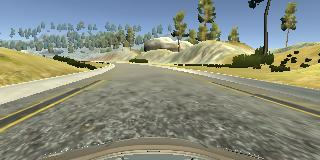
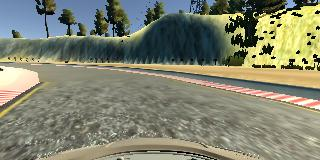
add recovery usage. updated recovery examples.

diff --git a/data_io.py b/data_io.py
@@ -10,11 +10,16 @@ VALIDATION_RATIO = 0.3
 
 
 def load_dataset():
-    log_file = os.path.join(DATA_PATH, 'driving_log.csv')
+    log_file_original = os.path.join(DATA_PATH, 'driving_log.csv')
+    log_file_centerDriving = os.path.join(DATA_PATH,'centerDriving','driving_log.csv')
+    log_file_recovery = os.path.join(DATA_PATH, 'recoveryLong', 'driving_log.csv')
     log_file_split = os.path.join(DATA_PATH, 'driving_log_split.csv')
 
-    if os.path.exists(log_file):
-        data = pd.read_csv(log_file)
+    if os.path.exists(log_file_centerDriving) and os.path.exists(log_file_recovery):
+        original = pd.read_csv(log_file_original)
+        centerDriving = pd.read_csv(log_file_centerDriving)
+        recovery = pd.read_csv(log_file_recovery)
+        data = centerDriving.append(recovery, ignore_index=True)
         n = len(data)
         print('\nDataset has {} samples'.format(n))
         # Reserve ratio of data for validation
@@ -26,7 +31,7 @@ def load_dataset():
 
 def count_data(batch_size):
     data = load_dataset()
-    valid_size = np.sum(data[VALIDATION_COLUMN] == 1)*0.05
+    valid_size = np.sum(data[VALIDATION_COLUMN] == 1)*0.09
     train_size = (int((len(data)-valid_size) * 0.1) // batch_size) * batch_size
     return train_size, valid_size
 
@@ -41,7 +46,7 @@ def load_image(file_path):
 def filter_steering(data, percentage=8, threshold = 0.5):
     #
     # Filtering % steering angles with delta above threshold
-    #    default is 70% of all angles less than 0.5
+    #    default is 70% of all angles greater than 0.5
     #
     rows = []
     delta = 0
@@ -163,7 +168,7 @@ def generate_train(batch_size=64, input_shape=(160, 320, 3)):
             #    with slight steering angle adjustment
             #    with horizontally flipped image
             random = np.random.randint(10)
-            if random < 8 and np.absolute(steering) > 0.20:
+            if random < 5 and np.absolute(steering) > 0.20:
                 img_left = load_image(data.loc[idx, 'left'])
                 img_right = load_image(data.loc[idx, 'right'])
                 i = add_side_image(x, y, steering, i, batch_size, img_left, img_right)
